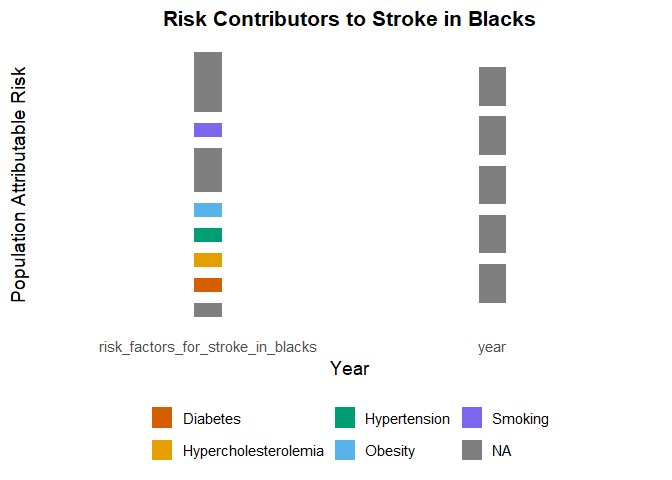
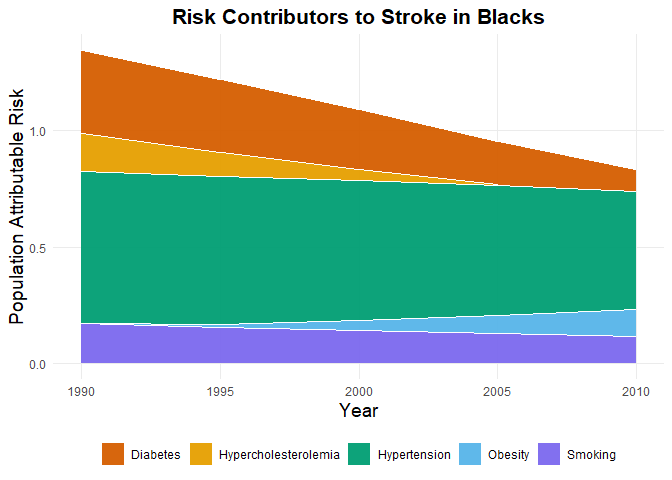
Whites space and no white space

diff --git a/question2.md b/question2.md
@@ -79,6 +79,8 @@ stacked_data_tidy =
 
 # Plots
 
+## Plot with white space
+
 ``` r
 ggplot(stacked_data_tidy, aes(x = year, 
                               y = population_attributable_risk, 
@@ -116,6 +118,40 @@ name = NULL)+
     ## (`stat_align()`).
 
 ![](question2_files/figure-gfm/unnamed-chunk-5-1.png)<!-- -->
+
+## Plot without whitespace
+
+``` r
+ggplot(stacked_data_tidy, aes(x = year, 
+                              y = population_attributable_risk, 
+                              fill = risk_factors_for_stroke_in_blacks)) +
+  geom_area(color = "white", size = 0, alpha = 0.95) +
+  scale_fill_manual(values = c(
+    "Diabetes" = "#D55E00",
+    "Hypercholesterolemia" = "#E69F00",
+    "Hypertension" = "#009E73",
+    "Obesity" = "#56B4E9",
+    "Smoking" = "#7B68EE"
+  ),
+name = NULL)+
+  scale_x_continuous(breaks = seq(190, 2010, 5)) +
+  labs(
+    title = " Risk Contributors to Stroke in Blacks ",   # <-- now at top
+    y = "Population Attributable Risk",                                
+    x = "Year"
+  ) +
+  theme(
+    legend.position = "bottom",
+    panel.grid.minor = element_blank(),
+    axis.title = element_text(size = 14),
+    plot.title = element_text(size = 16, face = "bold", hjust = 0.5) # centered title
+  )
+```
+
+    ## Warning: Removed 34 rows containing non-finite outside the scale range
+    ## (`stat_align()`).
+
+![](question2_files/figure-gfm/unnamed-chunk-6-1.png)<!-- -->
 
 Using ggsankey
 
@@ -162,4 +198,4 @@ ggplot(sankey_temp,
   )
 ```
 
-![](question2_files/figure-gfm/unnamed-chunk-6-1.png)<!-- --> \`\`
+![](question2_files/figure-gfm/unnamed-chunk-7-1.png)<!-- --> \`\`
